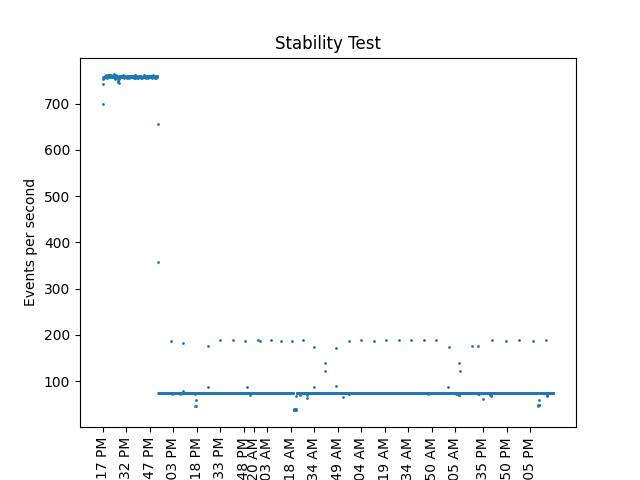
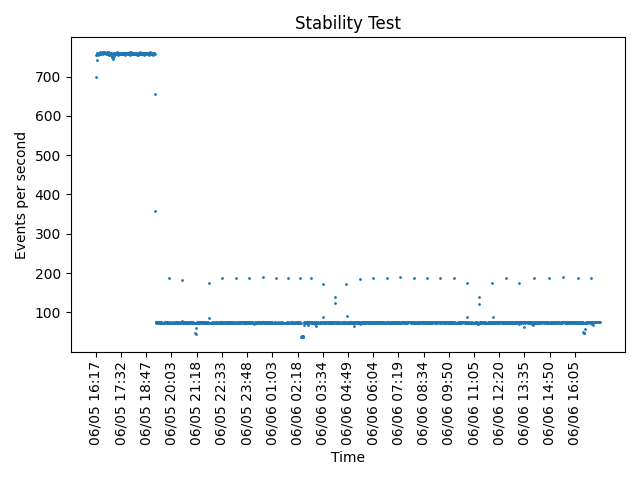
fix image gen

diff --git a/Stability/processing.py b/Stability/processing.py
@@ -1,32 +1,37 @@
 # read and graph the number of events completed from stabilityLog.txt
 import matplotlib.pyplot as plt
+import datetime, pytz
+
+# convert a UTC timestamp to an ET datetime object
+def utc_to_et(utc_dt):
+    # add the UTC timezone information to the datetime object
+    utc_dt = utc_dt.replace(tzinfo=pytz.utc)
+    # convert the UTC datetime object to an ET datetime object
+    et_dt = utc_dt.astimezone(pytz.timezone('US/Eastern'))
+    # return the ET datetime object
+    return et_dt
+
+# main method
 id = input("Day: ")
 with open(f"Stability\{id}.txt", "r") as f:
     lines = f.readlines()
     x = [] # timestamps
     y = [] # evetns per second
     for line in lines:
-        if "Jun" in line:
-            data = line.strip().split(" ")[4] # timestamp
-            # convert UTC to ET
-            if int(data.split(':')[0]) < 4:
-                data = f"{int(data.split(':')[0]) + 20}:{data.split(':')[1]}"
-            else:
-                data = f"{int(data.split(':')[0]) - 4}:{data.split(':')[1]}"
-            # convert 24 hour time to 12 hour time
-            if int(data.split(':')[0]) > 12:
-                data = f"{int(data.split(':')[0]) - 12}:{data.split(':')[1]} PM"
-            elif int(data.split(':')[0]) == 0:
-                data = f"12:{data.split(':')[1]} AM"
-            else:
-                data = f"{int(data.split(':')[0])}:{data.split(':')[1]} AM"
-            if "Mon" in line:
-                data = "Mon " + data
-            elif "Tue" in line:
-                data = "Tue " + data
-            elif "Wed" in line:
-                data = "Wed " + data
-            x.append(data)
+        if "UTC" in line:
+            # the timestamp string with two spaces
+            ts_str = line.strip()
+            # remove the extra space from the string
+            ts_str = ts_str.replace('  ', ' ')
+            # convert it to a datetime object with no extra space in the format code
+            ts_dt = datetime.datetime.strptime(ts_str, '%a %b %d %H:%M:%S %Z %Y')
+            # add the UTC timezone information
+            ts_dt = ts_dt.replace(tzinfo=pytz.utc)
+            # convert it to ET
+            et_dt = utc_to_et(ts_dt)
+            # convert the datetime object to a string
+            et_str = et_dt.strftime("%m/%d %H:%M")
+            x.append(et_str)
         elif "events per second" in line:
             data = line.strip().split(" ")
             y.append(float(data[-1]))
@@ -36,5 +41,6 @@ with open(f"Stability\{id}.txt", "r") as f:
     plt.xlabel("Time")
     plt.ylabel("Events per second")
     plt.title("Stability Test")
+    plt.tight_layout()
     plt.savefig(f"Stability\{id}_{len(x)}.png")
     plt.show()
